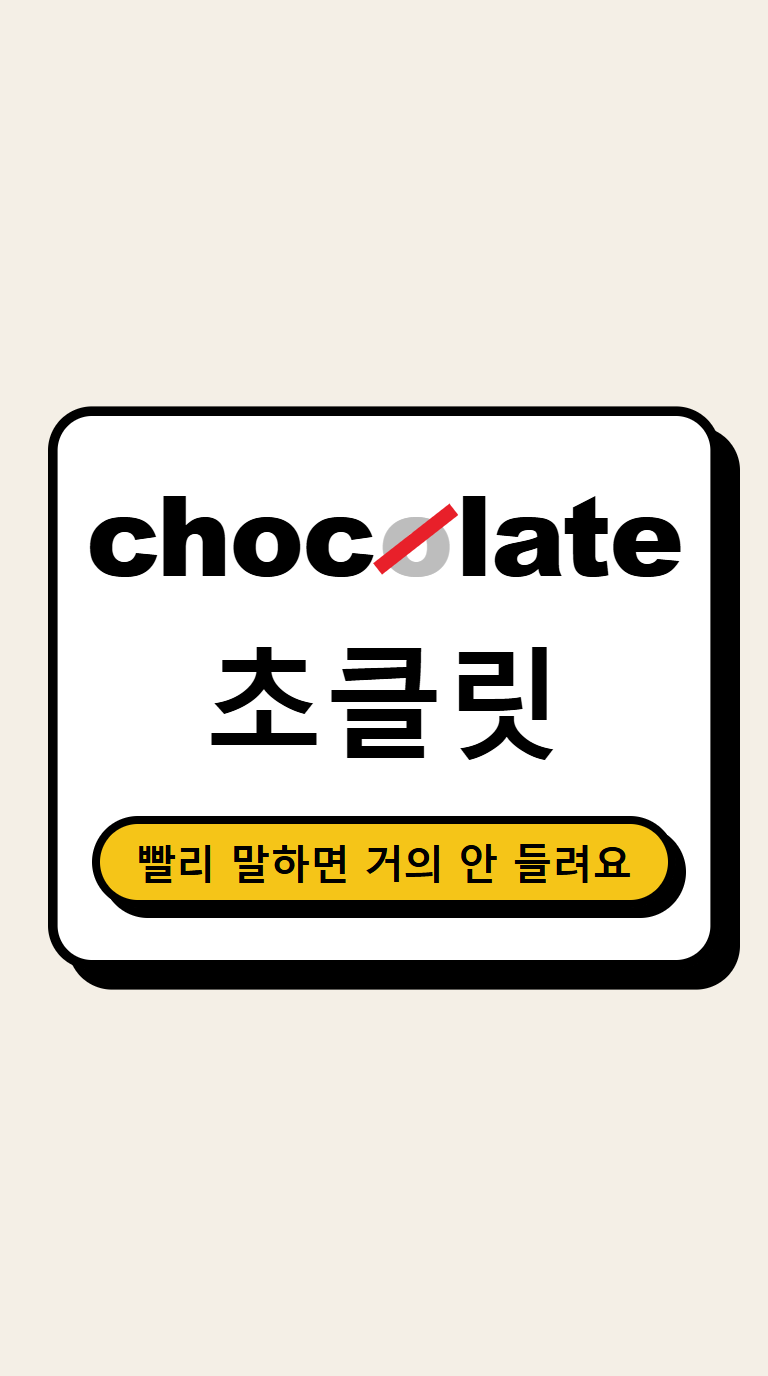
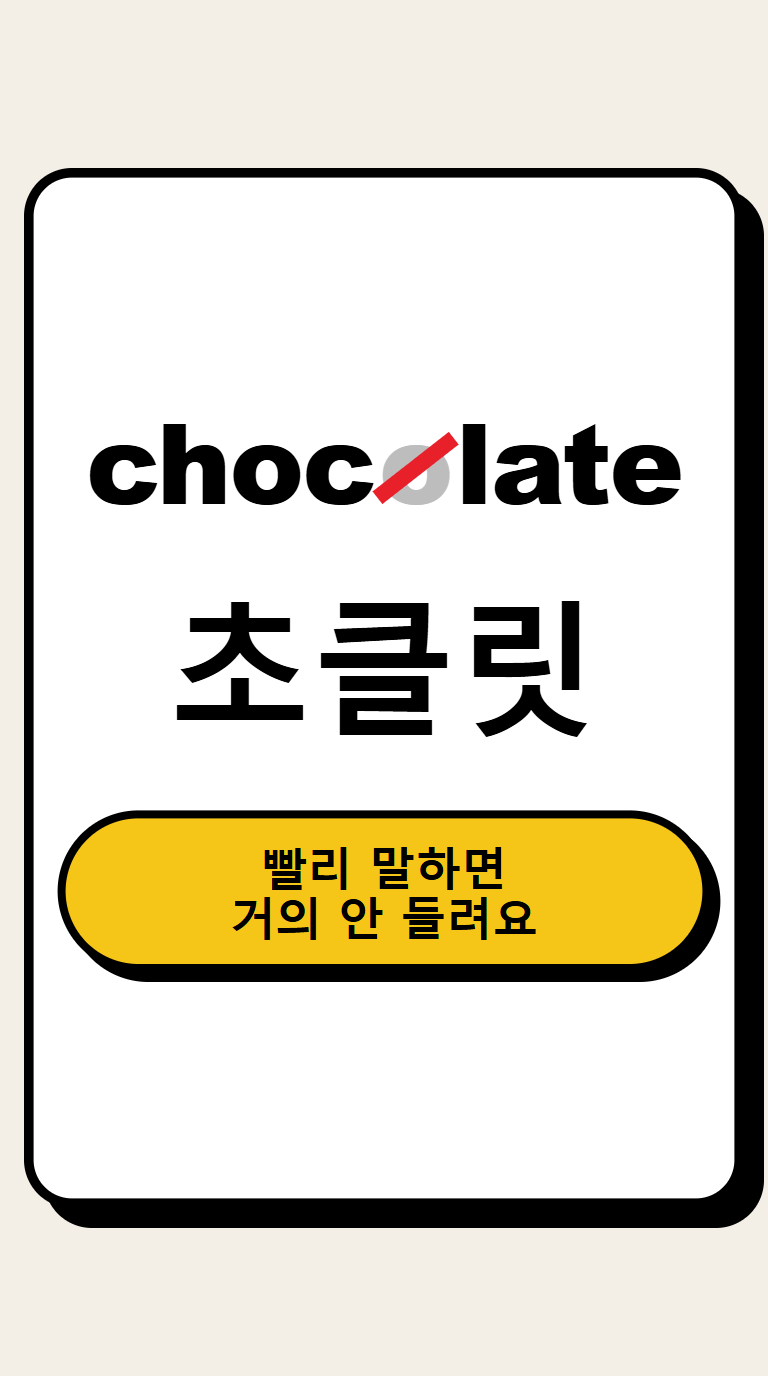
feat(data): 변형 시트 컷 카드를 프레임 대부분을 채우도록 키움
카드 폭 94%·높이 76%, 한글 소리·알약 글자 키움, 단어 단위 균형 줄바꿈. 크기 기준을 시험으로
고정해 다시 작아지지 않게 했다.

diff --git a/knowledge/logs/2026-11.md b/knowledge/logs/2026-11.md
@@ -725,3 +725,11 @@
 - **사전 대조로 알게 된 것(제 가정이 틀림)**: 웹 검색으로 확인. `memory`는 Merriam-Webster가 줄어든 형태 ˈmem-rē를 먼저 적는다(제가 "3음절이라 안 줄어든다"고 한 것은 틀림). `chocolate`는 M-W가 가운데 모음을 괄호(선택)로 표기 → "원어민은 두 마디로 말한다"는 단정 불가, "빨리 말하면 거의 안 들린다"가 사실. `vegetable`은 Oxford Learner's·Cambridge learner·WordReference·Vocabulary.com이 가운데 모음 없는 형태를 적는다. `different`는 두 형태 병기. `restaurant`는 출처마다 갈려 뺐고, `average`·`several`은 줄지 않는 형태가 먼저 나와 뺐다. 단어를 chocolate·vegetable·different·memory + 퀴즈 vulnerable(시청자 요청)로 바꾸고 문구를 "사라진다" → "빨리 말하면 거의 안 들린다"로 낮췄다. vulnerable·영국식 확인은 아직 남음(시트 pending).
 - **정직하게 남는 약점**: 우리 컷 카드는 프레임 안에서 작게(약 40%) 보여서 경쟁의 꽉 찬 진행자 화면보다 빈약해 보인다 → 카드 크기·밀도를 키울지 검토. 컷 리듬·밀도가 시청 유지에 영향을 준다는 증거는 이 1편뿐(가설).
 - **확인**: 새 시험(`sheet-cards.test.mjs` 10개, `transform-sheet` 컷 필름스트립 1개, `outlier-report` 컷 프레임 1개)을 먼저 실패시킨 뒤 구현. `npm test` → `# pass 401`, `# fail 0`. 서버 재시작 후 `node scripts/test-client-syntax.mjs` → `ALL CLIENT TABS AND FUNCTIONS VERIFIED`, 실제 서버 매일 점검 문제 0개. 브라우저(1280px): 필름스트립 경쟁 15장·우리 14장, 깨진 이미지 0, 가로 넘침 없음. 이미지 경로(`..%2F` 등)는 404 확인.
+
+## 2026-11-12 — 변형 시트 컷 카드 크기 키우기
+
+- **왜**: 컷을 이미지로 놓고 보니 우리 카드가 프레임(384×688)의 폭 약 88%·높이 약 40%만 차지해, 경쟁의 꽉 찬 진행자 화면보다 빈약해 보였다.
+- **바꾼 것**(`scripts/sheet-card-templates.mjs` CSS): 카드 폭 336→360px(프레임의 94%), 최소 높이 520px(76%), 영어 단어 56px 유지(가로폭이 한계라 `chocolate` 9글자가 이미 꽉 찬다), 한글 소리 60→72px, 알약 20→23px, 정리표 줄 간격·글자 키움, `?` 배지 키움. 알약·문장은 `word-break:keep-all; text-wrap:balance`로 단어 단위 균형 줄바꿈(처음엔 알약에서 `요` 한 글자만 다음 줄로 넘어가고 마지막 두 카드 글이 어색하게 끊겼다).
+- **시험**: 카드 폭 ≥ 프레임의 90%, 최소 높이 ≥ 70%, 영어 단어 ≥ 56px·한글 소리 ≥ 64px·알약 ≥ 22px, 줄바꿈 규칙 3개를 `sheet-cards.test.mjs`에 추가(먼저 실패 확인). 카드를 일부러 폭 300px로 줄이면 "카드 폭 300px가 프레임 폭의 90% 미만"으로 실패, 되돌리면 통과. 처음 쓴 정규식이 `width`가 첫 속성일 때를 못 읽어 시험이 잘못 실패했다 → 시험을 고침.
+- **확인**: 14장 다시 렌더해 눈으로 확인(철자·강조 글자 그대로). `npm test` 결과는 아래 커밋 검사에 기록.
+- **남은 한계**: 영어 단어 글자 크기는 가로폭 때문에 더 못 키운다. 경쟁 화면은 사람 얼굴·영화 장면이 주는 정보량·움직임이 있고 우리는 글자 카드라, 크기를 키워도 정보 밀도 차이는 남는다. 실제 영상에서는 글자가 움직이는 모션(HyperFrames)으로 보완할 부분이다(아직 안 함).
